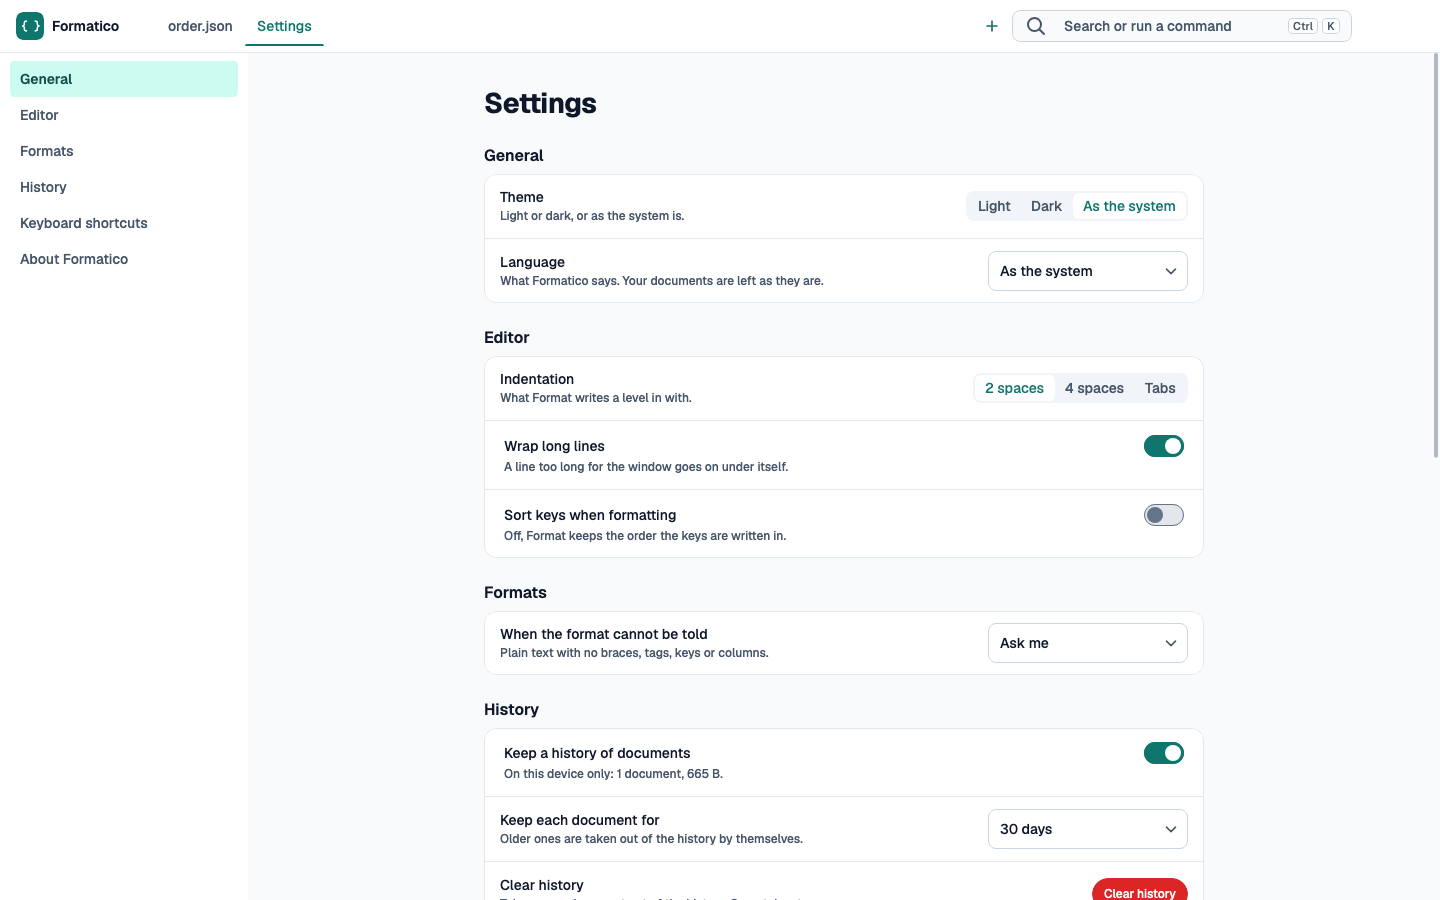
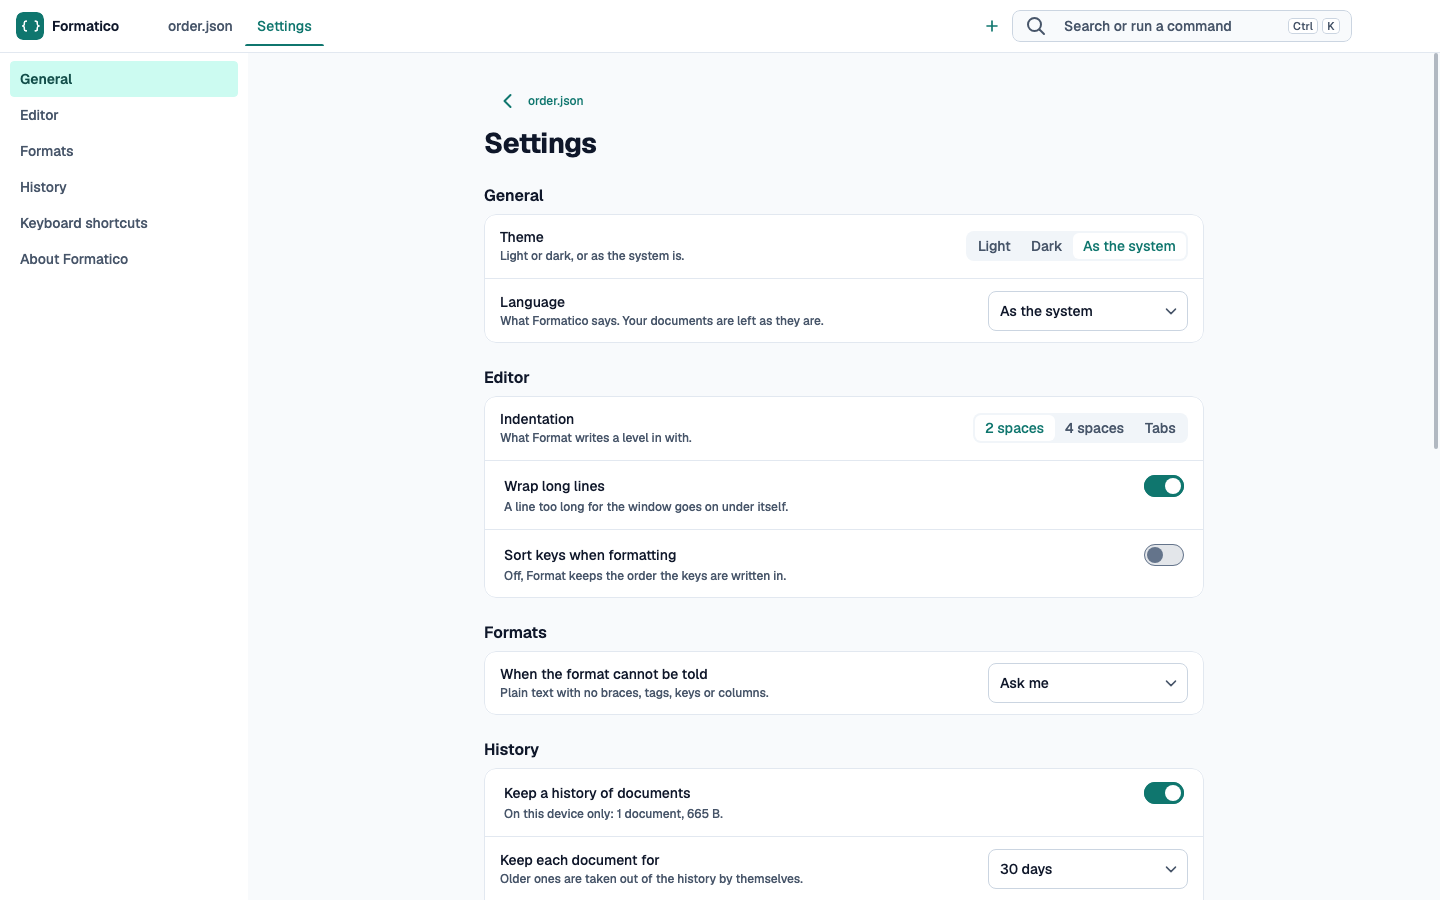
[FIX][Go back from Settings on a wide window and a tablet to the tab it was opened over]

diff --git a/feature/settings/src/commonMain/kotlin/com/developersancho/formatico/feature/settings/SettingsScreen.kt b/feature/settings/src/commonMain/kotlin/com/developersancho/formatico/feature/settings/SettingsScreen.kt
@@ -31,7 +31,11 @@ import com.developersancho.formatico.core.navigation.SystemBack
 import com.developersancho.formatico.feature.settings.strings.SettingsStrings
 import com.developersancho.formatico.feature.settings.strings.settingsStrings
 import com.pantrixui.components.container.topbar.PantrixBackButton
+import com.pantrixui.components.elements.button.ButtonSize
+import com.pantrixui.components.elements.button.ButtonVariant
+import com.pantrixui.components.elements.button.PantrixButton
 import com.pantrixui.components.elements.divider.PantrixHorizontalDivider
+import com.pantrixui.components.elements.icon.PantrixIcon
 import com.pantrixui.components.elements.scrollbar.pantrixVerticalScroll
 import com.pantrixui.components.elements.text.PantrixText
 import com.pantrixui.components.elements.text.TextRole
@@ -41,6 +45,7 @@ import com.pantrixui.components.navigation.sidebar.SidebarItem
 import com.pantrixui.components.overlay.commandpalette.PantrixCommand
 import com.pantrixui.foundation.adaptive.WindowWidthClass
 import com.pantrixui.foundation.adaptive.isNarrow
+import com.pantrixui.foundation.icons.PantrixIcons
 import com.pantrixui.foundation.theme.PantrixTheme
 import kotlinx.coroutines.launch
 import org.koin.compose.viewmodel.koinViewModel
@@ -83,11 +88,11 @@ internal fun shownSections(layout: SettingsLayout, shortcuts: List<PantrixComman
     }
 
 /**
- * Settings with its view model: back from its sections leaves it, by [onClose]. [shortcuts] are the palette's commands
- * whose keys Keyboard shortcuts lists.
+ * Settings with its view model: back from its sections leaves it, by [onClose], for the tab it was opened over, whose
+ * name is [backTo]. [shortcuts] are the palette's commands whose keys Keyboard shortcuts lists.
  */
 @Composable
-fun SettingsRoute(onClose: () -> Unit, shortcuts: List<PantrixCommand>, modifier: Modifier = Modifier) {
+fun SettingsRoute(onClose: () -> Unit, shortcuts: List<PantrixCommand>, backTo: String? = null, modifier: Modifier = Modifier) {
     val viewModel = koinViewModel<SettingsViewModel>()
     MviScreen(
         viewModel = viewModel,
@@ -97,7 +102,7 @@ fun SettingsRoute(onClose: () -> Unit, shortcuts: List<PantrixCommand>, modifier
             }
         }
     ) { state, dispatch ->
-        SettingsScreen(state = state, onIntent = dispatch, modifier = modifier, shortcuts = shortcuts)
+        SettingsScreen(state = state, onIntent = dispatch, modifier = modifier, shortcuts = shortcuts, backTo = backTo)
     }
 }
 
@@ -107,7 +112,8 @@ fun SettingsRoute(onClose: () -> Unit, shortcuts: List<PantrixCommand>, modifier
  * back a page too, and leaves Settings from its sections. Keyboard shortcuts lists [shortcuts]' keys.
  *
  * [at] is the section it opens scrolled to, as a board draws one further down; where the window does not show that
- * section, the one shown before it.
+ * section, the one shown before it. [backTo] is the name of the tab Settings was opened over, which a wide window and a
+ * tablet go back to from over the title, as a phone's bar does; with none, there is no way back drawn.
  */
 @Composable
 internal fun SettingsScreen(
@@ -115,7 +121,8 @@ internal fun SettingsScreen(
     onIntent: (SettingsIntent) -> Unit,
     modifier: Modifier = Modifier,
     shortcuts: List<PantrixCommand> = emptyList(),
-    at: SettingsSection? = null
+    at: SettingsSection? = null,
+    backTo: String? = null
 ) {
     val layout = settingsLayout()
     val sections = shownSections(layout, shortcuts)
@@ -125,7 +132,9 @@ internal fun SettingsScreen(
     val openedAt = opened?.let { placed[it] }
     LaunchedEffect(openedAt) { openedAt?.let { scroll.scrollTo(it) } }
     SystemBack { onIntent(SettingsIntent.Back) }
-    val pages = @Composable { pagesModifier: Modifier -> Pages(state, layout, sections, shortcuts, onIntent, placed, pagesModifier) }
+    val pages = @Composable { pagesModifier: Modifier ->
+        Pages(state, layout, sections, shortcuts, onIntent, placed, backTo, pagesModifier)
+    }
     Box(modifier = modifier.fillMaxSize().background(PantrixTheme.colors.background)) {
         when (layout) {
             SettingsLayout.Wide -> Row(modifier = Modifier.fillMaxSize()) {
@@ -164,11 +173,12 @@ private fun Pages(
     shortcuts: List<PantrixCommand>,
     onIntent: (SettingsIntent) -> Unit,
     placed: MutableMap<SettingsSection, Int>,
+    backTo: String?,
     modifier: Modifier
 ) {
     Box(modifier = modifier) {
         when (val page = state.page) {
-            SettingsPage.Settings -> Sections(state, layout, sections, shortcuts, onIntent, placed)
+            SettingsPage.Settings -> Sections(state, layout, sections, shortcuts, onIntent, placed, backTo)
             SettingsPage.Licences -> LicencesPage(layout, onIntent)
             is SettingsPage.Licence -> LicencePage(page.library, layout, onIntent)
         }
@@ -183,17 +193,12 @@ private fun Sections(
     sections: List<SettingsSection>,
     shortcuts: List<PantrixCommand>,
     onIntent: (SettingsIntent) -> Unit,
-    placed: MutableMap<SettingsSection, Int>
+    placed: MutableMap<SettingsSection, Int>,
+    backTo: String?
 ) {
     val phone = layout == SettingsLayout.Phone
     Column(verticalArrangement = Arrangement.spacedBy(if (phone) 18.dp else 24.dp)) {
-        if (!phone) {
-            PantrixText(
-                text = settingsStrings.title,
-                style = PantrixTheme.typography.headline,
-                role = TextRole.Heading(level = 1)
-            )
-        }
+        if (!phone) SettingsTitle(backTo, onIntent)
         sections.forEach { section ->
             Box(Modifier.onPlaced { placed[section] = it.positionInParent().y.toInt() }) {
                 when (section) {
@@ -206,6 +211,29 @@ private fun Sections(
                 }
             }
         }
+    }
+}
+
+/**
+ * Settings' title on a wide window and a tablet, under the way back to the tab it was opened over, [backTo], as their
+ * boards draw it: the tab Settings has among the documents' cannot be closed (PANTRIX_FINDINGS, "Belge sekmeleri için
+ * kapatılabilen bir sekme yok"), and Escape leaves no screen there.
+ */
+@Composable
+private fun SettingsTitle(backTo: String?, onIntent: (SettingsIntent) -> Unit) {
+    Column(horizontalAlignment = Alignment.Start, verticalArrangement = Arrangement.spacedBy(PantrixTheme.spacing.sm)) {
+        if (backTo != null) {
+            PantrixButton(
+                text = backTo,
+                onClick = { onIntent(SettingsIntent.Back) },
+                variant = ButtonVariant.Text,
+                size = ButtonSize.Small,
+                leadingIcon = { PantrixIcon(imageVector = PantrixIcons.ChevronBack, contentDescription = null) },
+                contentDescription = settingsStrings.backTo(backTo),
+                tagKey = "back"
+            )
+        }
+        PantrixText(text = settingsStrings.title, style = PantrixTheme.typography.headline, role = TextRole.Heading(level = 1))
     }
 }
 

diff --git a/app/shared/src/commonMain/kotlin/com/developersancho/formatico/App.kt b/app/shared/src/commonMain/kotlin/com/developersancho/formatico/App.kt
@@ -45,6 +45,7 @@ import com.developersancho.formatico.feature.workspace.WorkbenchKeeper
 import com.developersancho.formatico.feature.workspace.WorkspaceRoute
 import com.developersancho.formatico.feature.workspace.editor.LocalWrapLines
 import com.developersancho.formatico.feature.workspace.workspaceModule
+import com.developersancho.formatico.strings.appStrings
 import com.pantrixui.components.container.scaffold.PantrixScaffold
 import com.pantrixui.components.overlay.snackbar.LocalPantrixSnackbars
 import com.pantrixui.components.overlay.snackbar.rememberPantrixSnackbarState
@@ -220,7 +221,12 @@ private fun AppScreens(
         entryProvider = entryProvider {
             entry<Destination.Start> { StartRoute(onOpenDocument = onOpen, onOpenAddress = onOpenAddress) }
             entry<Destination.Workspace> { destination -> WorkspaceRoute(documentId = destination.documentId) }
-            entry<Destination.Settings> { SettingsRoute(onClose = onCloseSettings, shortcuts = shortcutCommands()) }
+            entry<Destination.Settings> {
+                // A wide window and a tablet go back from Settings to the tab it was opened over, by its name.
+                val open by workbench.state.collectAsState()
+                val behind = open.selected?.let { it.name ?: appStrings.untitled } ?: appStrings.newTab
+                SettingsRoute(onClose = onCloseSettings, shortcuts = shortcutCommands(), backTo = behind)
+            }
         }
     )
 }

diff --git a/app/shared/src/commonTest/kotlin/com/developersancho/formatico/AppSettingsTest.kt b/app/shared/src/commonTest/kotlin/com/developersancho/formatico/AppSettingsTest.kt
@@ -65,6 +65,26 @@ class AppSettingsTest {
     }
 
     @Test
+    fun aWideWindowGoesBackFromSettingsToTheTabItWasOpenedOverByItsName() = runComposeUiTest {
+        app()
+        awaitText("Paste anything")
+        // Opened over a new tab, it goes back to it.
+        onPantrixNode("IconButton", "settings").performClick()
+        awaitText("Keep a history of documents")
+        onPantrixNode("Button", "back").assert(hasContentDescription("Back to New tab")).performClick()
+        awaitText("Paste anything")
+
+        onPantrixNode("ListItem", "sample_order").performClick()
+        awaitText("Valid JSON")
+        onPantrixNode("IconButton", "settings").performClick()
+        awaitText("Keep a history of documents")
+        onPantrixNode("Button", "back").assert(hasContentDescription("Back to order.json")).performClick()
+        awaitText("Valid JSON")
+        onPantrixNode("Tab", "settings", scope = "Tabs_documents").assertDoesNotExist()
+        onPantrixNode("Tab", "document_1", scope = "Tabs_documents").assertIsSelected()
+    }
+
+    @Test
     fun commandAndCommaOpensSettingsAndItsThemeIsTheAppsOwn() = runComposeUiTest {
         app()
         awaitText("Paste anything")

diff --git a/feature/settings/src/commonTest/kotlin/com/developersancho/formatico/feature/settings/SettingsScreenTest.kt b/feature/settings/src/commonTest/kotlin/com/developersancho/formatico/feature/settings/SettingsScreenTest.kt
@@ -67,6 +67,17 @@ class SettingsScreenTest {
     }
 
     @Test
+    fun aWideWindowGoesBackOverTheTitleToTheTabItWasOpenedOver() = runComposeUiTest {
+        val intents = mutableListOf<SettingsIntent>()
+        setContent {
+            PantrixTestTheme(window = desktop) { SettingsScreen(state = state, onIntent = { intents += it }, backTo = "order.json") }
+        }
+
+        onPantrixNode("Button", "back").assert(hasContentDescription("Back to order.json")).performClick()
+        assertEquals(listOf<SettingsIntent>(SettingsIntent.Back), intents)
+    }
+
+    @Test
     fun aWindowJustWiderThanATabletLeavesRoomBesideTheColumn() = runComposeUiTest {
         val size = DpSize(860.dp, 700.dp)
         setContent {

diff --git a/feature/settings/src/commonMain/kotlin/com/developersancho/formatico/feature/settings/SettingsPreviews.kt b/feature/settings/src/commonMain/kotlin/com/developersancho/formatico/feature/settings/SettingsPreviews.kt
@@ -75,6 +75,7 @@ internal class SettingsCases :
 @Composable
 internal fun SettingsPreview(@PreviewParameter(SettingsCases::class) case: PreviewCase<SettingsCase>) {
     FormaticoPreview(case, Modifier.fillMaxSize()) { (state, at) ->
-        SettingsScreen(state = state, onIntent = {}, shortcuts = PreviewShortcuts, at = at)
+        // Opened over the order, as the boards draw it.
+        SettingsScreen(state = state, onIntent = {}, shortcuts = PreviewShortcuts, at = at, backTo = "order.json")
     }
 }

diff --git a/feature/settings/src/commonMain/kotlin/com/developersancho/formatico/feature/settings/strings/SettingsStringsTurkish.kt b/feature/settings/src/commonMain/kotlin/com/developersancho/formatico/feature/settings/strings/SettingsStringsTurkish.kt
@@ -3,6 +3,9 @@ package com.developersancho.formatico.feature.settings.strings
 /** [SettingsStrings] in Turkish. */
 internal object SettingsStringsTurkish : SettingsStrings {
     override val title = "Ayarlar"
+
+    override fun backTo(first: String) = "Geri dön: $first"
+
     override val general = "Genel"
     override val editor = "Editör"
     override val formats = "Biçimler"

diff --git a/feature/settings/src/commonMain/kotlin/com/developersancho/formatico/feature/settings/strings/SettingsStringsEnglish.kt b/feature/settings/src/commonMain/kotlin/com/developersancho/formatico/feature/settings/strings/SettingsStringsEnglish.kt
@@ -3,6 +3,9 @@ package com.developersancho.formatico.feature.settings.strings
 /** [SettingsStrings] in English. */
 internal object SettingsStringsEnglish : SettingsStrings {
     override val title = "Settings"
+
+    override fun backTo(first: String) = "Back to $first"
+
     override val general = "General"
     override val editor = "Editor"
     override val formats = "Formats"

diff --git a/feature/settings/src/commonMain/kotlin/com/developersancho/formatico/feature/settings/strings/SettingsStrings.kt b/feature/settings/src/commonMain/kotlin/com/developersancho/formatico/feature/settings/strings/SettingsStrings.kt
@@ -13,6 +13,10 @@ import com.developersancho.formatico.core.designsystem.inTheLanguage
  */
 internal interface SettingsStrings {
     val title: String
+
+    /** "Back to {first}" */
+    fun backTo(first: String): String
+
     val general: String
     val editor: String
     val formats: String

diff --git a/docs/PANTRIX_FINDINGS.md b/docs/PANTRIX_FINDINGS.md
@@ -217,7 +217,7 @@ Formatico'nun işini tıkayan bir maddenin durumu `tıkıyor` der (`Durum: açı
     *   Ne: Workspace açık belgeleri sekmelerde tutuyor: her sekmenin bir kapatma düğmesi ve kaydedilmemiş değişiklik işareti var. `PantrixTabs`'ın `TabItem`'ı etiket, simge, rozet, `enabled` ve `tagKey` alıyor; kapatma ya da sekmenin sonuna bir düğme koyma yolu yok. Panolarda belge sekmeleri işaretleme.
     *   Nerede: [Tabs](https://pantrixui.com/components/tabs); MCP `get_api TabItem`.
     *   Öneri: `TabItem`'a `onClose` (ve okuyucuya "Kapat {label}") ya da sekmenin sonu için bir yuva; kaydedilmemiş işareti için `TabBadge`'in noktası yeterli olabilir.
-    *   Durum: açık. Kodda (2026-11-03) üst çubuk tek sekmeyi `PantrixTabs` ile çiziyor, kapatma düğmesi yok. `PantrixTabs` kendisine verilen genişliği dolduruyor; sekmelerin hemen ardından gelecek "+" düğmesi için bir yuva da yok, düğme şimdilik çizilmiyor. Workspace'le (2026-11-03) sekmeler açık belgeler oldu: kaydedilmemiş değişiklik `TabBadge`'in noktasıyla gösteriliyor, kapatmak belgenin "more" menüsünde ("Close the document"). "+" düğmesi sekmelerin hemen ardında değil, sekme şeridinin sonunda duruyor: `PantrixTabs`, `Modifier.weight(1f, fill = false)` verilince de kendisine kalan genişliğin tamamını alıyor.
+    *   Durum: açık. Kodda (2026-11-03) üst çubuk tek sekmeyi `PantrixTabs` ile çiziyor, kapatma düğmesi yok. `PantrixTabs` kendisine verilen genişliği dolduruyor; sekmelerin hemen ardından gelecek "+" düğmesi için bir yuva da yok, düğme şimdilik çizilmiyor. Workspace'le (2026-11-03) sekmeler açık belgeler oldu: kaydedilmemiş değişiklik `TabBadge`'in noktasıyla gösteriliyor, kapatmak belgenin "more" menüsünde ("Close the document"). "+" düğmesi sekmelerin hemen ardında değil, sekme şeridinin sonunda duruyor: `PantrixTabs`, `Modifier.weight(1f, fill = false)` verilince de kendisine kalan genişliğin tamamını alıyor. Ayarlar'ın sekmesi de bu yüzden kapatılamıyor (2026-11-09): panoda × var, kodda yok; sahibi masaüstünde Ayarlar'dan dönemediğini söyledi. Geniş pencerede ve tablette Ayarlar'dan dönüş artık başlığın üstünde, açıldığı sekmenin adıyla bir geri düğmesi ("‹ order.json"), lisanslar sayfasındaki "‹ Settings" gibi; panolar da öyle çizildi. `TabItem`'a `onClose` gelince sekmenin × düğmesi de eklenir.
 *   [x] **TreeView satırının sonunda yalnızca bir metin var; büyük ağaçta her açık satır oluşturuluyor (2026-11-02).**
     *   Ne: Formatico'nun ağacı değerleri önizliyor: tarih bir etiketle, renk bir örnekle, adres bir bağlantı simgesiyle, resim bir küçük resimle. `TreeNode.trailing` yalnızca `String`; satıra bir öğe konamıyor. Ayrıca `PantrixTreeView` kaydırmıyor ve her açık satırı oluşturuyor ("binlerce açık satır kendi listesini ister"); masaüstünde 50 MB'lık belge hedefi için yetmez. Panolarda ağaç işaretleme.
     *   Nerede: [Tree View](https://pantrixui.com/components/tree-view); MCP `get_api PantrixTreeView`, `TreeNode`.

diff --git a/docs/OPEN_ITEMS.md b/docs/OPEN_ITEMS.md
@@ -536,6 +536,13 @@ Her madde: **ne**, **nerede**, **öneri**, **durum**. Kapanan madde silinmez: ne
     *   Öneri: gerçek bir tablette dokunarak denemek; orada da görünürse Pantrix'in bulgusu (PantrixMenu odağı geri
         verirken menünün dokunmayla kullanıldığını hesaba katmıyor), görünmezse testin ortamına özgü.
     *   Durum: açık.
+*   [ ] **Android'in Invalid-834 panosunda imleç bazen 1. satırda kalıyor (2026-11-09).**
+    *   Ne: `recordRoborazziAndroidHostTest` aynı kodla iki koşuda Invalid-834-dark'ı farklı çizdi: birinde imlecin
+        satırı 1, ötekinde panodaki gibi 10. Tur metni seçip problemi gösteriyor; Robolectric'te imlecin yerine
+        oturması görüntüden sonraya kalabiliyor. Doğrulama koşusu (`verify…`) bu yüzden ara sıra düşebilir.
+    *   Nerede: `app/shared/screenshots/android/Invalid-834-dark.png`; turu `BoardTour.invalid()`.
+    *   Öneri: tur, görüntüden önce durum çubuğunun "Ln 10, Col 5"ini beklesin.
+    *   Durum: açık.
 
 ## Üst çubuk
 
